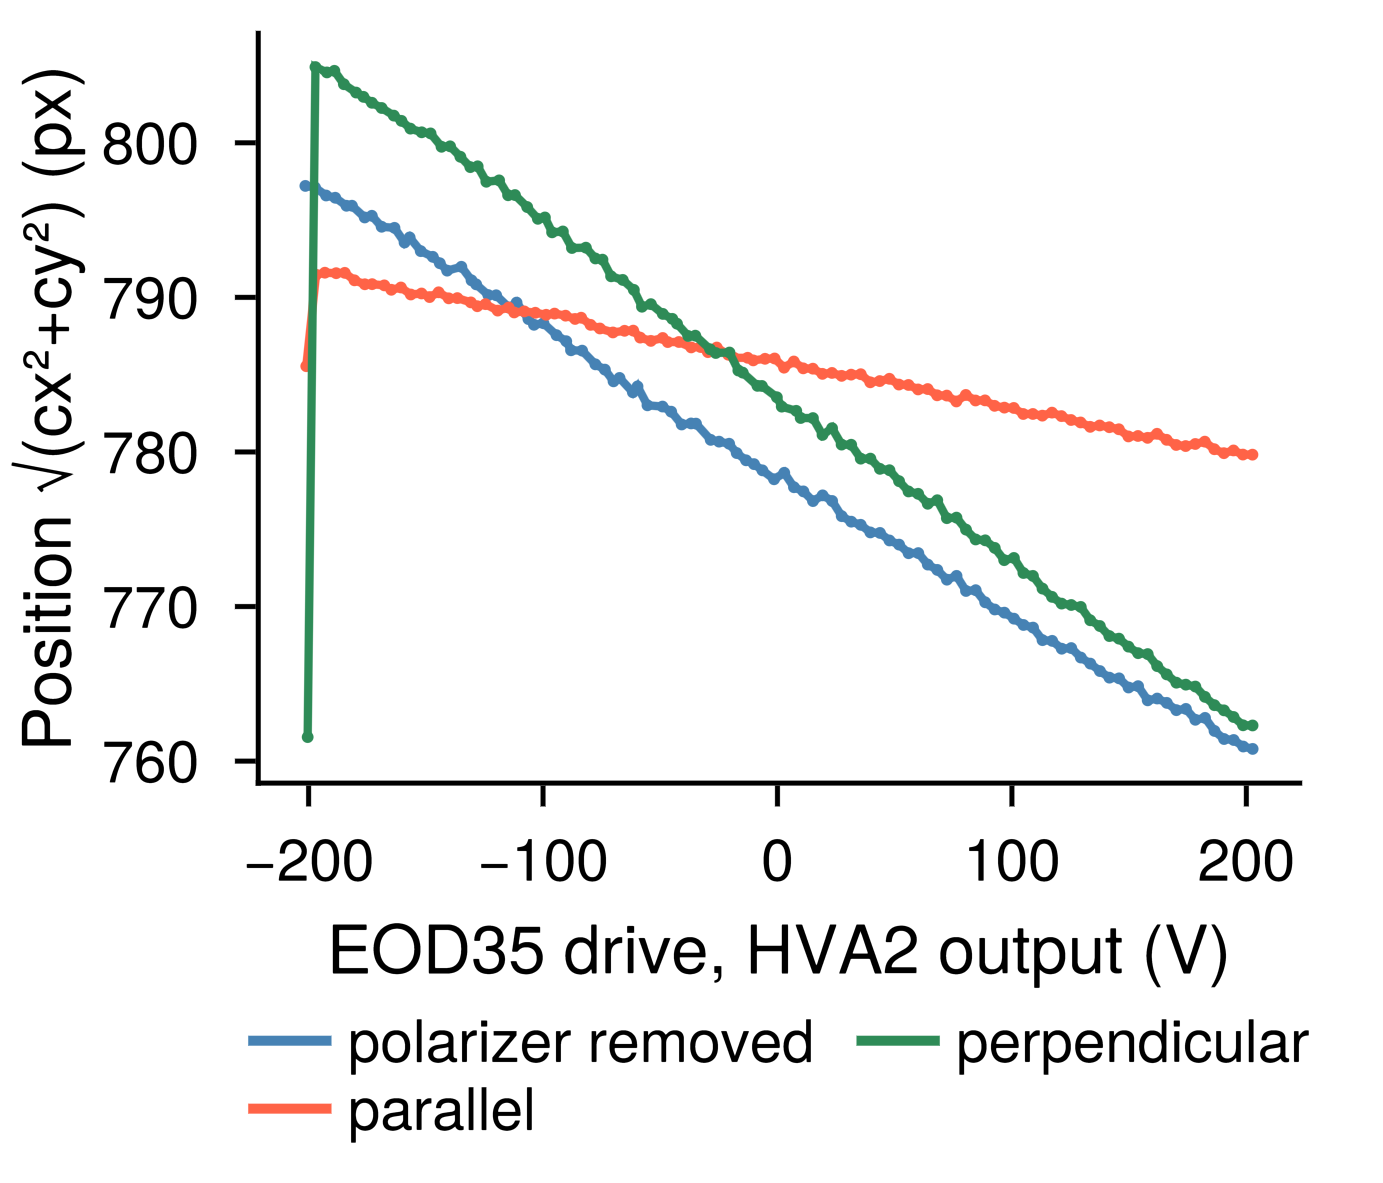
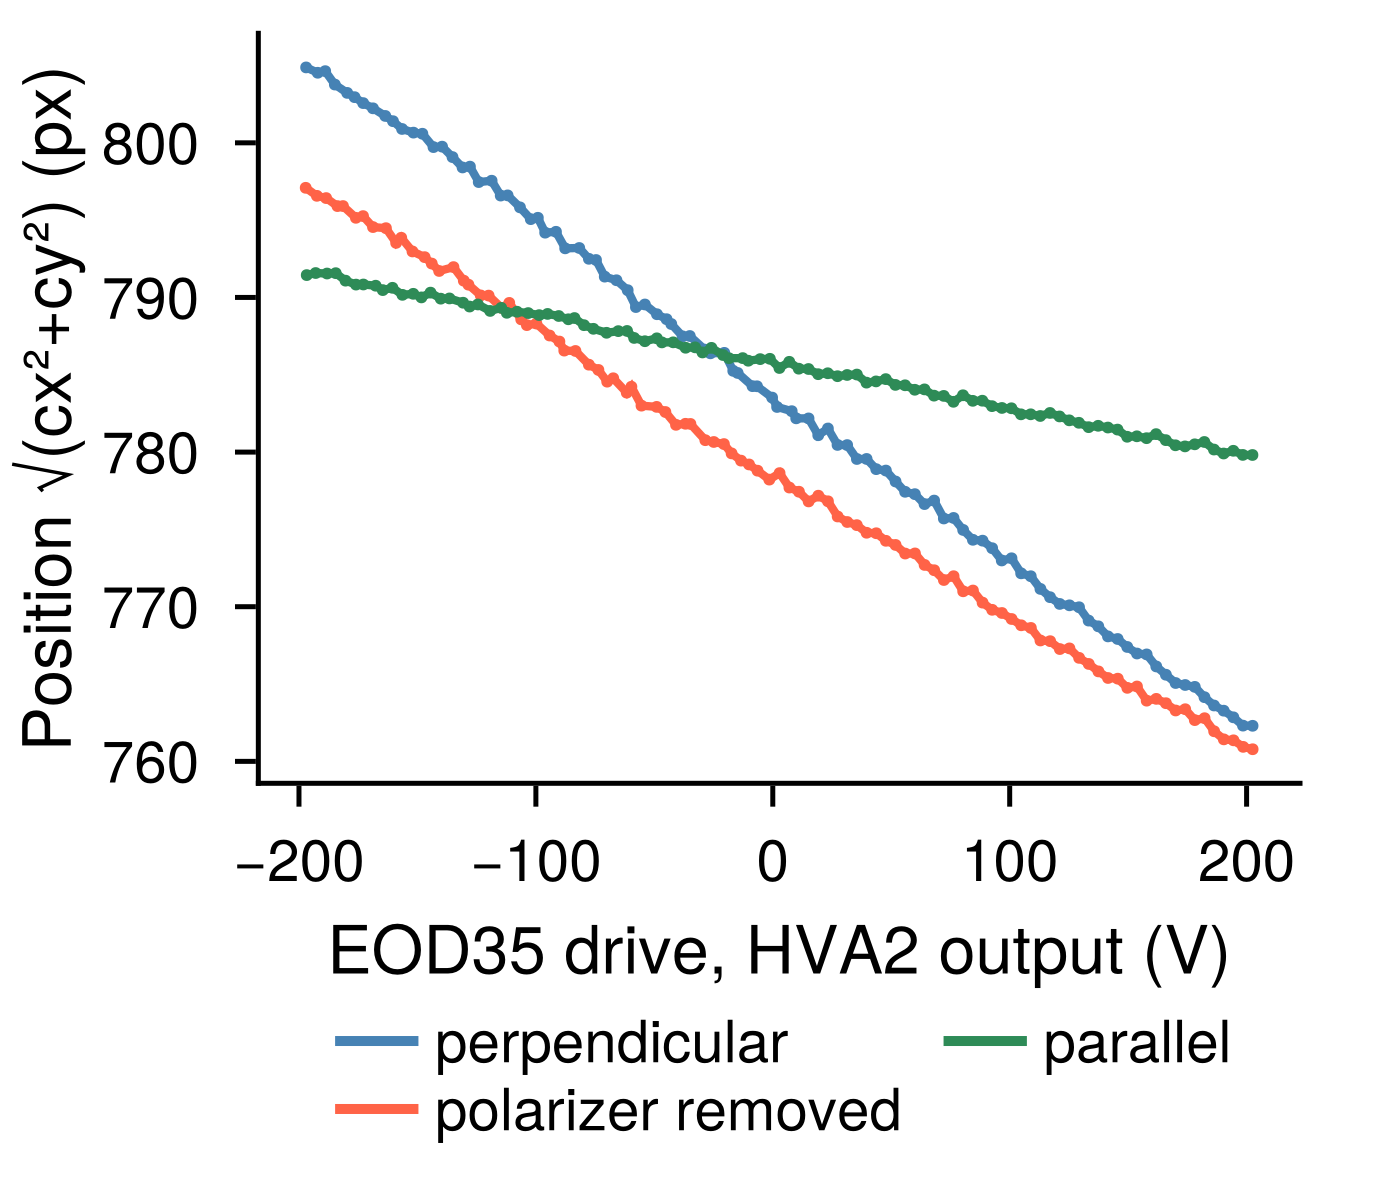
Regenerated polarization figures and provenance cleanup for the review
The eight polarization panels now drop the stale first frame, regenerated
from MicroscopeMinFlux.jl 47e3e91; the manifest points at the _step1
sources so a refresh cannot restore the old ones. PROVENANCE.md now cites
the same commits as the sidecars, drops the superseded galvanometer table
and the stale "not in the manuscript yet" entries, and records the review's
re-analysis commits. Appendix B names the analysis branch.

diff --git a/main.tex b/main.tex
@@ -2517,7 +2517,8 @@ spelling.
 \end{table}
 
 The analyses were written in Julia and are kept in the instrument's control repository,
-\texttt{MicroscopeMinFlux.jl}, under \path{dev/analysis}. Each graph is saved beside the data it was
+\texttt{MicroscopeMinFlux.jl}, under \path{dev} and \path{dev/analysis} on the branch
+\path{worktree-galvo-delay-analysis}. Each graph is saved beside the data it was
 drawn from, together with a provenance record naming that data, the script and the commit that
 produced it, and the bench facts it assumes. A copy of every graph and its record is kept with this
 document, so every figure can be traced to its source and regenerated.

diff --git a/figures/PROVENANCE.md b/figures/PROVENANCE.md
@@ -12,9 +12,12 @@ Every data figure is one graph per file with no title; `main.tex` groups related
 `<name>.yaml` beside it, copied in by the refresh script, recording the former title, source
 dataset, producing script and commit, axes and notes. The same record is embedded in the PNG
 itself (read it with `exiftool`, or `read_figure_info` from `MicroscopeMinFlux.jl`
-`dev/plot_style.jl`). The split figures were regenerated on 2026-10-26 from `MicroscopeMinFlux.jl`
-commit `3dc9c23` (branch `worktree-galvo-delay-analysis`); the combined multi-panel originals are
-still on the NAS, unused.
+`dev/plot_style.jl`). Every figure was produced on `MicroscopeMinFlux.jl` branch
+`worktree-galvo-delay-analysis`, and its sidecar names the exact commit; the commits named in this
+file are the same ones. The EOD figures come from `1598356`, the donut from `331cd95`, the EOD step
+response from `4655371`, and the galvanometer from `a4acb2e`; the polarization figures were
+regenerated for the review of 2026-11-16 (see the last section). The combined multi-panel
+originals are still on the NAS, unused.
 
 ## Naming the two deflectors
 
@@ -51,7 +54,7 @@ of these plots is in those units.
 
 The manuscript groups the four cross-correlation graphs as `fig:eod-beam-xcorr`. Legends name
 the deflectors by serial, EOD34 (blue circles) and EOD35 (red squares), since the relabel of
-2026-10-26 (`MicroscopeMinFlux.jl` commit `feb91d5`); earlier versions said EOD P and EOD G.
+2026-10-26; earlier versions said EOD P and EOD G.
 
 **Not used: the width and ellipticity graphs from this sweep** (`beam_quality_fwhm_x/y.png`,
 `beam_quality_ellipticity.png`). The user flagged that data as wrong on 2026-10-26, so the
@@ -59,9 +62,11 @@ figure and the text built on it were removed from the manuscript; they remain in
 only as a record, not for reuse. Their sweep also read exactly zero at both ends of travel, where
 the width search failed.
 
-Produced by `MicroscopeMinFlux.jl` `dev/beam_char_analysis.jl` (branch `beam_char`), which fits
+Produced by `MicroscopeMinFlux.jl` `dev/beam_char_analysis.jl` at `1598356`, which fits
 two-dimensional Gaussian profiles per frame and computes the cross-correlation metrics through its
-`xcorr2d` and `xcorr_metrics` routines.
+`xcorr2d` and `xcorr_metrics` routines. The millimetre scale rests on the code comment "raw 0.100 =
+4/32 inch" (same file, lines 20-29); the HDF5 position attribute carries no unit, and the user
+confirmed the comment on 2026-11-18.
 
 ### Station definitions for the along-the-path measurement
 
@@ -84,7 +89,7 @@ any degradation found there cannot be attributed to one or the other from this d
 
 Measured results: NAS `EOD Driver test/beam characterizatiom/gausian/may 26`, acquired
 2026-05-26, one frame per station; the station key is also in `specs.txt` there. Produced by
-`MicroscopeMinFlux.jl` `dev/analysis/beam_quality_positions.jl` (commit `4ca3fba`). These three
+`MicroscopeMinFlux.jl` `dev/analysis/beam_quality_positions.jl` (commit `1598356`). These three
 replace the combined `beam_quality_3panel.png`, which stays on the NAS unused.
 
 | Figure | Source | Shows |
@@ -152,9 +157,8 @@ The crystal-to-sensor distance is the lever arm that converts measured displacem
 |---|---|
 | `eod-setup-beam-deflection` | bench layout for the voltage-sweep measurement |
 
-Measured results are not in the manuscript yet. The voltage sweep, the calibration curve in
-mrad/V, and the comparison against the manufacturer specification remain to be produced; this
-entry covers the setup drawing only.
+The measurements made on this bench are recorded under "Beam quality against deflection voltage"
+above and "Polarization dependence of the deflection sensitivity" below.
 
 ## Experiment 3 — two deflectors relayed onto one another
 
@@ -171,23 +175,23 @@ directly on the camera.
 |---|---|
 | `eod-setup-relay-two-deflectors` | bench layout for the relayed deflector pair |
 
-Setup drawing only; no measurements from this configuration are in the manuscript yet.
+The measurements made on this configuration are recorded under "Station definitions for the
+along-the-path measurement" above.
 
 ## Experiment 4 — donut creation on the relayed pair
 
 Setup drawing: `optics_svg/EOD/EOD_exp_4_relay system_2EOD_donut_creation.png`, exported from the
 Photoshop source of the same name in the `optics_svg` root.
 
-The relayed deflector pair of experiment 3, with a quarter-wave plate after the second crystal
-and a further lens train (L3 to L5) carrying the beam to the camera. Note that the drawing labels
-no vortex or phase element, so the figure as drawn does not yet show what imposes the helical
-phase; this should be checked against the bench before the donut section is written up.
+The relayed deflector pair of experiment 3, followed by the L3-L4 and L5-L6 relays, the vortex
+phase plate, fold mirror M3, a quarter-wave plate, and L7 forming the donut on the camera. The
+drawing shows the plate and lenses L3 to L7.
 
 | Figure | Shows |
 |---|---|
 | `donut-setup-creation` | bench layout for the donut-forming path |
 
-Setup drawing only; no measurements from this configuration are in the manuscript yet.
+The measurements made on this configuration are recorded under "Donut beam (jun4)" below.
 
 ## Polarization dependence of the deflection sensitivity
 
@@ -211,9 +215,9 @@ sensitivity bars are compared against the vendor's quoted minimum of 3 mrad/kV.
 
 **Lever arm.** The 190 mm measured on the bench runs from the deflector housing face to the
 sensor. The vendor puts the deflection pivot at the centre of the 60 mm housing, 30 mm further
-back, so the angle is referred to 220 mm. The figures were regenerated at 220 mm on 2026-10-26
-(`MicroscopeMinFlux.jl` commit `d390417`); anything computed earlier used 190 mm and overstates
-every sensitivity by the factor 220/190, about sixteen percent.
+back, so the angle is referred to 220 mm. The figures were regenerated at 220 mm on 2026-10-26;
+anything computed earlier used 190 mm and overstates every sensitivity by the factor 220/190,
+about sixteen percent.
 
 | Figure | Shows |
 |---|---|
@@ -225,9 +229,16 @@ every sensitivity by the factor 220/190, about sixteen percent.
 Each deflector is one 2×2 figure in the manuscript, (a) to (d) in the order above. The stable
 filenames keep the amplifier name; the text and captions use the serial.
 
-Measured sensitivities at 220 mm, in mrad/kV: perpendicular 2.95 and 3.12, unpolarized 2.08 and
-2.77, parallel 0.83 and 0.88, for EOD34 and EOD35 respectively. At 190 mm these were 3.42 and
-3.61, 2.40 and 3.21, 0.96 and 1.01; the audit values quoted above are the 190 mm ones.
+Measured sensitivities at 220 mm with step 1 excluded, in mrad/kV: perpendicular 3.15 and 3.31,
+polarizer removed 2.14 and 2.77, parallel 0.89 and 0.90, for EOD34 and EOD35 respectively. Step 1
+of five of the six sweeps is a camera frame taken before the new voltage took effect (its beam
+sits where the previous sweep ended, or at 0 V); it is dropped from every fit and every panel.
+The values before 2026-11-18, 2.95 and 3.12, 2.08 and 2.77, 0.83 and 0.88, included it, as do
+the 190 mm audit values quoted above.
+
+The horizontal axis is -20 times the amplifier monitor. The monitor reads +1/20 of the output (the
+HVA200 inverts between input and output, not between output and monitor), so the axis is -1
+times the crystal voltage, on the scale of the command.
 
 The combined plots labelled the deflector "ODE" rather than "EOD" in legend and title. The split
 graphs have no title and their legends name only the polarization, so that no longer shows.
@@ -237,7 +248,7 @@ graphs have no title and their legends name only the polarization, so that no lo
 Measured results: NAS `EOD Driver test/beam characterizatiom/angle_stability/apr_4`, acquired
 2026-04-03. Each deflector held at nine command voltages, −10 to +10 V in 2.5 V steps, 40 frames
 per hold about 0.9 s apart (from the file timestamps), so roughly 36 s per hold. Regenerated by
-`MicroscopeMinFlux.jl` commit `89db96a`.
+`MicroscopeMinFlux.jl` commit `1598356`.
 
 The sources say EOD1 and EOD2: **EOD1 = HVA1 = EOD34, EOD2 = HVA2 = EOD35** (folders `EOD34`,
 `EOD35` beside them). The stable names use the serial. The `ODE*_` files in the same folder are
@@ -257,8 +268,11 @@ is about 0.0137 mrad.
 
 Manuscript figures: `fig:eod-stab-timeseries` (2×3), `fig:eod-stab-spread` (2×2),
 `fig:eod-stab-angular` (1×2). In brief: EOD35 sits at about 0.001 mrad σ throughout; EOD34
-matches that at −2.5 V and positive voltages but drifts slowly through the hold at −10, −7.5,
-−5 and 0 V (σ 0.003–0.007 mrad; about 0.03 mrad over 36 s at 0 V, mostly in y).
+matches that at −2.5 V and positive voltages but drifts through the hold at −10, −7.5, −5 and
+0 V (σ 0.003–0.007 mrad; about 0.03 mrad over 36 s at 0 V, mostly in y). Across the whole run
+this is one excursion of about 4 px (0.05 mrad) over the first four minutes, continuous across
+holds and changing sign within them. The voltages were visited once in order, so it cannot be
+assigned to EOD34 or to a voltage.
 
 ## Laser pointing stability baseline
 
@@ -270,7 +284,9 @@ Three corrections to what the old combined figure implied:
 - The old time axis was step × settle time and read 100 s; the real span is 673 s, so any drift
   rate read off the old plot was about 6.7 times too fast.
 - It measures the laser and bench, not the deflector: the files come from the sweep program, but
-  the HVA1 monitor stayed within 0.5 V and the beam did not follow the command.
+  the HVA1 monitor stayed within 0.5 V. Beam y correlates with the command and the monitor
+  (r = −0.94, 1.1 px over the run), which cannot be told from drift because the command rose
+  steadily in time.
 - At 380 mm: σ 0.0019 mrad in x, 0.0046 in y, 0.0022 total; peak-to-peak 0.0119, 0.0199, 0.0116.
 
 | Figure | Shows |
@@ -283,8 +299,8 @@ Manuscript figure: `fig:laser-stab` (2×2).
 ## Donut beam (jun4)
 
 Measured results: NAS `EOD Driver test/beam characterizatiom/donut/jun4`, analysed by
-MicroscopeMinFlux.jl `dev/analysis/donut_jun4_thesis.jl` at ce95c01 (branch
-worktree-galvo-delay-analysis, not pushed). Every per-run number is in `donut_runs_summary.csv`,
+MicroscopeMinFlux.jl `dev/analysis/donut_jun4_thesis.jl` at 331cd95 (branch
+worktree-galvo-delay-analysis). Every per-run number is in `donut_runs_summary.csv`,
 and every sweep step is in `deflec_donut/donut_sweep_steps.csv`.
 
 Bench, from the user's third drawing of 2026-10-30, in path order (the two earlier drawings
@@ -300,8 +316,9 @@ placed the QWP and the plate differently):
 7. The camera in the focal plane of L7: a Thorlabs DCx, MONO8 8-bit, 5.2 µm pixels, 10 ms
    exposure.
 
-"Polarizer" runs have a polarizer ahead of the QWP. The focal length of L7 is not recorded, so
-displacements stay in µm at the camera.
+"Polarizer" runs have a polarizer ahead of the QWP. L7 is 100 mm (see the lens note below), but
+the recorded geometry does not reproduce the measured scale, so displacements stay in µm at the
+camera.
 
 Corrections to the earlier analysis of this data:
 
@@ -337,14 +354,14 @@ Sweep pairing: X = HVA1 = EOD34, Y = HVA2 = EOD35, from the sweep_channel attrib
 
 Manuscript: `fig:donut-static`, `tab:donut-runs`, `fig:donut-runs`, `fig:donut-sweep`.
 
-**Lens focal lengths (user, 2026-10-30):** 100 mm for every lens except L5, 13.5 mm; L5-L6 is a 7.4x expander and the camera is 100 mm after L7. These do not reproduce the data: they predict about 0.8 um/V displacement and a ring a few um in radius, against 4.8 um/V and 86 um measured. Displacements therefore stay in um at the camera until the L7-to-camera distance and the beam size at the plate are measured.
+**Lens focal lengths (user, 2026-10-30):** 100 mm for every lens except L5, 13.5 mm; L5-L6 is a 7.4x expander and the camera is 100 mm after L7. These do not reproduce the data: they predict about 0.85 um/V displacement (at 3.15 mrad/kV) and a ring a few um in radius, against 4.8 um/V and 86 um measured. No 13.5 mm lens appears in the inventory or order forms; the value is the user's (reconfirmed 2026-11-18). Displacements therefore stay in um at the camera until the L7-to-camera distance and the beam size at the plate are measured.
 
 ## EOD step response (October 2026)
 
 Measured results: NAS `EOD Driver test/EOD_delay/10-16-26 high speed/{EOD34,EDO35}`. The folder
 `EDO35` is a misspelling of EOD35. Scope stamps: EOD35 16 Oct 2026, EOD34 19 Oct 2026 (a
 recapture). Analysis: MicroscopeMinFlux.jl `dev/analysis/EOD_delay_thesis.jl` at 4655371
-(branch worktree-galvo-delay-analysis, not pushed). Per-capture numbers are in
+(branch worktree-galvo-delay-analysis). Per-capture numbers are in
 `delay_edges_summary.csv`.
 
 Bench:
@@ -352,8 +369,12 @@ Bench:
 - CH1 is the HVA200 monitor output.
 - CH2 is the PDQ80A quadrant detector's difference output (150 kHz specified). It swings
   symmetrically through 0 V: ±92 mV for EOD34, ±164 mV for EOD35.
-- Square drive at 1–50 kHz, about 4.4 Vpp command. The monitor reads about ±2.0 V for EOD34 and
-  ±2.9 V for EOD35, which is unexplained.
+- Square drive at 1–50 kHz. The generator amplitude is not in the files. Between settled levels
+  the monitor swings 3.9 Vpp for EOD34 (78 V at the crystal, recorded 2026-10-19) and 5.8 Vpp for
+  EOD35 (116 V, 2026-10-16); the two units were driven at different amplitudes.
+- The PDQ80A was not characterized on its own. The whole measured response (delay and both
+  stages) is of the size the detector could produce, so the text reports it as an upper bound on
+  the deflector's response.
 - Whether the X or Y difference output was used is not recorded.
 
 Corrections to the first summaries:
@@ -384,6 +405,11 @@ Key numbers (10–50 kHz):
   | EOD34 | 0.80–0.82 | 0.96–0.97 | 1.00 |
   | EOD35 | 0.91–0.94 | 0.98–1.00 | 1.00 |
 
+  One 8 mV level of CH2 is 4% of the EOD34 throw and 2% of EOD35's, and settled levels differ by
+  2–3% between captures, so the text rounds these to about 0.80 / 0.96 and 0.92 / 0.99.
+- **Delay against frequency.** The rise from 10 to 50 kHz follows the sample interval (0.4 to
+  0.1 µs); resampled to a common 0.4 µs there is no significant trend.
+
 | Figure | Shows |
 |---|---|
 | `eod-delay-trace-50khz` | drive and both responses over three edges at 50 kHz |
@@ -409,18 +435,15 @@ optical p-p over ±10 V = 2.0 optical °/V (quote QU200428gt). The "4.0 °/V" in
 the 671's generic 0.5 V/mech° factor and does not apply. "Off" in the on/off runs = servo driver
 powered off (user).
 
-| Set | Folder | Detector | Numbers used in the text |
-|---|---|---|---|
-| Angle calibration | `9-16-2026/1v-1v sweep` | camera, f = 100 mm | X 2.0304 °/V, Y 1.4451 °/V (on-sensor points only) |
-| Power cycling | `off-on comparation`, `9-28-2026` | camera; QPD | Δr 2327 µm; ON sd 5e-4 / 8e-4 vs noise 19e-4 / 10e-4 (normalized) |
-| Return and drift | `9-30-2026 drift` | QPD | X 0.185 / 0.38 / −1.32 µm; Y 0.68 / 0.58 / 0.22 µm (stability / noise / drift) |
-| Step response | `10-2-2026_xy_high_speed` | QPD, 10 kS/s | overshoot X 0.8–1.2 %, Y 0.33–0.42 %; settling X 280–307 µs, Y 313–333 µs |
-| Delay | `10-7-2026 delay` | scope, CH2 photodiode | 50–50 %: X 274.5 (rise 312, fall 242), Y 272.7 µs |
-| Small-step delay | `10-16-2026 small amp delay` | scope: CH1 wave generator (also driving the galvo), CH2 QPD | 10–10 %: X 171–184, Y 166–180 µs; 10–90 rise 190–205 µs |
+Data folders: angle calibration `9-16-2026/1v-1v sweep`; power cycling `off-on comparation` and
+`9-28-2026`; return and drift `9-30-2026 drift`; step response `10-2-2026_xy_high_speed`; delay
+`10-7-2026 delay` and `10-16-2026 small amp delay`. The numbers used in the text are in the
+re-analysis section at the end of this file.
 
-SUPERSEDED by the re-analysis below. Numbers were from the run write-ups (EXPERIMENT.md, RESULTS.md, README.md, summary PNGs). The peer
-was asked on 2026-11-02 to re-analyse and draw article-style figures. Results text to be re-checked
-when those land.
+Axis names: G1 steers in the table plane, so its shaft is vertical; G2 steers out of it, shaft
+horizontal. The instrument record (`instrument/subsystems/galvo/README.md`, "as built") calls the
+shaft-horizontal scanner X, the reverse of this bench, so the thesis table names each column by
+its shaft too.
 
 Stated as fact in the text (confirmed by the user 2026-11-02): Y/X = 0.712 ≈ cos 45° = 0.707, which fits G2
 rotating about an axis in its plane of incidence (45° fold, scanning out of the table plane).
@@ -432,7 +455,7 @@ report `impedance missmacth report .docx` and ramp plots `ramp_test_no_amp.png` 
 `ramp_test_amp.png` (buffered, before decoupling) and `ramp_test.png`.
 
 Numbers from the report: HVA200 input measured at 1.002 and 1.045 kΩ; DAQ current at saturation
-6.7 and 7.68 mA → 6.71 and 8.04 V, matching the plateaus. LF411 followers run from ±15 V
+6.70 and 7.68 mA → 6.71 and 8.03 V, within about half a volt of the plateaus. LF411 followers run from ±15 V
 (report). Decoupling capacitors on the rails removed the supply noise.
 
 Discrepancies resolved in the text:
@@ -440,14 +463,17 @@ Discrepancies resolved in the text:
   ±11 mA short-circuit, so the text uses ±5 mA.
 - The schematic labels the op-amp rails ±5 V and the caps 100 µF. The report says ±15 V and 100 nF.
   The text follows the report (±10 V out is impossible from ±5 V rails), so the schematic labels
-  should be corrected.
+  should be corrected. The schematic also numbers the op-amp pins as for a dual package; on the
+  LF411 the output is pin 6 and V+ pin 7. The caption says so.
 - The report's "Unit 1/Unit 2" saturating at 6.71/8.04 V is the reverse of the ramp plot (AO0/HVA1
   about 7.5–7.8 V, AO1/HVA2 about 6.6–6.8 V), so the text does not assign the two values to units.
 
 ### Re-analysis used in the text (peer, 2026-11-02, `dev/analysis/galvo_thesis.jl` @ a4acb2e)
 
-Branch `worktree-galvo-delay-analysis` was local only when this was written. CSVs sit beside the
-figures on the NAS.
+CSVs sit beside the figures on the NAS. The fit errors on the scale factors (±0.0005, ±0.0001 °/V)
+understate the uncertainty: the narrow sweeps differ by up to 0.55%, the x slope varies 2.5%
+across the range, and focal length and pixel pitch enter at the percent level. The text quotes
+2.03 and 1.44 °/V.
 
 | Figure | Key numbers |
 |---|---|
@@ -459,3 +485,20 @@ figures on the NAS.
 | `galvo-step-*` | erfinv-linearised; overshoot X 1.6–1.8 %, Y 0.33–0.49 %; settling ±2 % from the 10 % point X 240–258, Y 274–288 µs; 10–90 X 198–205, Y 211–218 µs |
 | `galvo-delay-amplitude`, `-rise-`, `-edges` | 10-16: drive 50 % → 10 % 152–168 µs, → 50 % 246–261 µs, 10–90 201–213 µs, X = Y, flat 10–100 mVpp; X 5 mVpp unresolved |
 | `galvo-delay-frequency` | 10-7 (0.52 Vpp): QPD saturated; the X 312/240 rise/fall split is gap-crossing geometry, not the axis; rise/fall mean X 276–278, Y 270–275 µs |
+
+## Review of 2026-11-16
+
+A factual-accuracy review of the manuscript was answered on 2026-11-18. The re-analyses behind the
+changed numbers are committed on `MicroscopeMinFlux.jl` branch `worktree-galvo-delay-analysis`:
+
+| Commit | Script | Answers |
+|---|---|---|
+| `ac39811` | `dev/analysis/polarization_angle_step1.jl` | sensitivities with step 1 dropped, half-range slopes and linearity |
+| `f0a1b80` | `dev/analysis/review_2026_11_16/b3_*.jl`, `donut_funcs.jl` | null against ring under deflection, m1 along the axis, NCC sawtooth floor |
+| `5ded345` | `dev/analysis/review_2026_11_16/s9_*.jl` | peak counts and noise-limited R² ceiling at each station |
+| `d7ca348` | `dev/analysis/review_2026_11_16/n4_stage.jl`, `xcorr_funcs.jl` | plateau widths at 0.97, 0.95 and 0.90 |
+| `47e3e91` | `dev/analysis/review_2026_11_16/s10_donut.jl` | null bounds, sweep range and darkest-spot bias |
+
+The eight polarization figures were regenerated from `47e3e91` with step 1 dropped from every
+panel and fit; their sidecars name that commit. The other review numbers (B3, S9, S10, N4, the
+delay resampling and drive amplitudes) are in the text only and have no figure.
